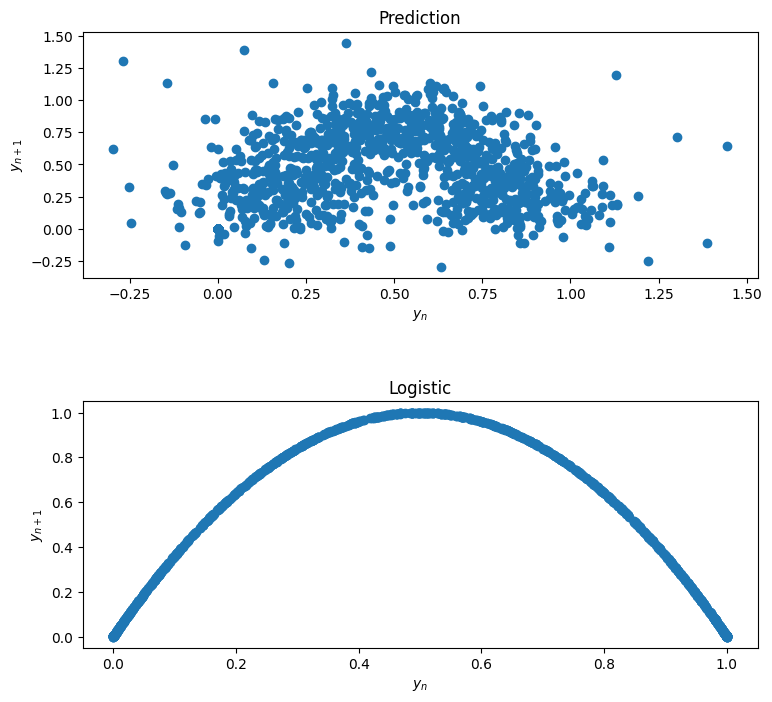
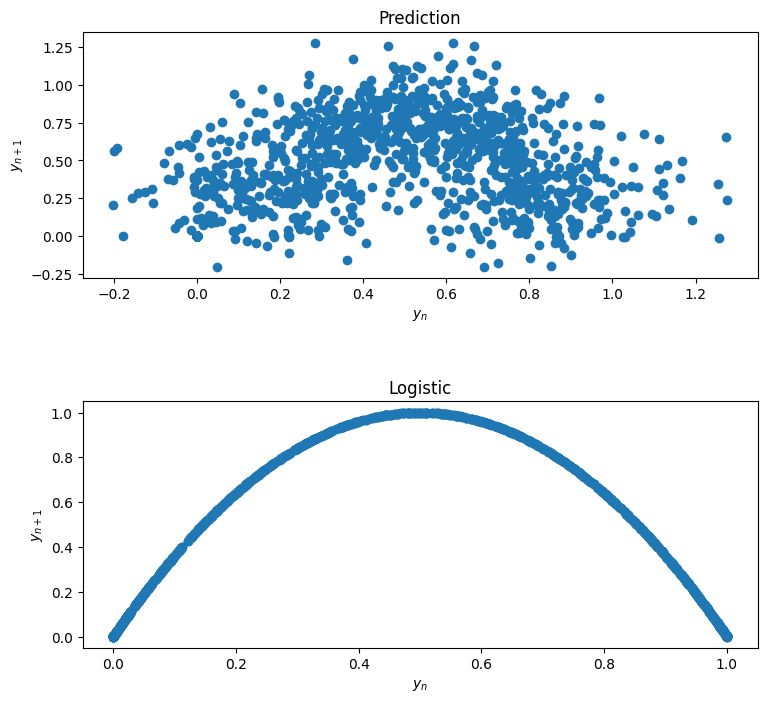
drop train_length; 1000000 -> 200000

diff --git a/src/logistic.py b/src/logistic.py
@@ -14,7 +14,7 @@ image_path = Path('./images').resolve()
 image_path.mkdir(mode=0o775, parents=True, exist_ok=True)
 
 init_length = 1000
-train_length = 1_000_000
+train_length = 200_000
 test_length = 1000
 tmax = train_length + test_length
 

diff --git a/README.md b/README.md
@@ -11,8 +11,8 @@
 ![sinusoid](https://raw.githubusercontent.com/kmhk-naka/python-esn/master/images/sinusoid.png)
 
 # ロジスティック写像
-`train_length = 1_000_000`で実行したときの結果．ただし，訓練ロジックの関係で，100万回で実行するとCPUが悲鳴をあげることがあるので注意．
+`train_length = 200_000`で実行したときの結果．
 
-![logistic 2000000](https://raw.githubusercontent.com/kmhk-naka/python-esn/master/images/logistic.png)
+![logistic 200000](https://raw.githubusercontent.com/kmhk-naka/python-esn/master/images/logistic.png)
 
-![logistic feature 2000000](https://raw.githubusercontent.com/kmhk-naka/python-esn/master/images/logistic-feature.png)
+![logistic feature 200000](https://raw.githubusercontent.com/kmhk-naka/python-esn/master/images/logistic-feature.png)
